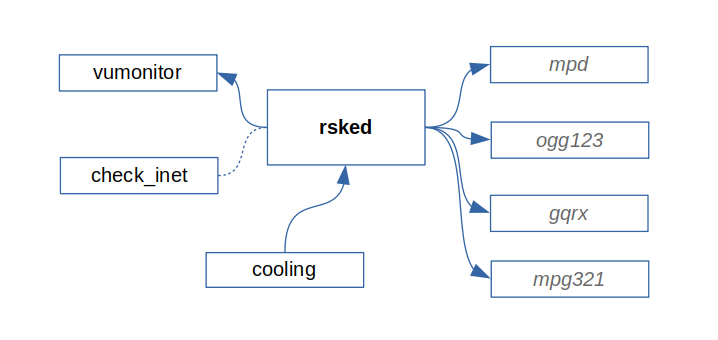
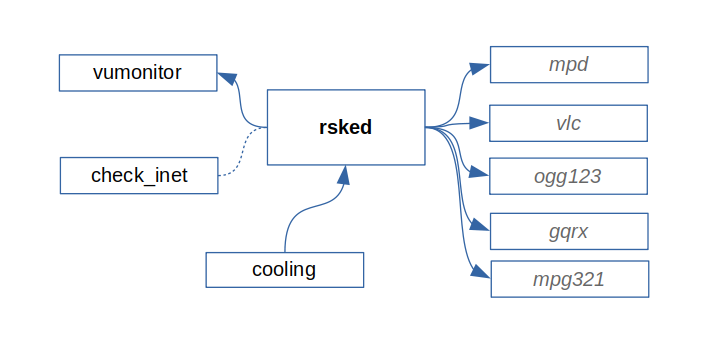
upgrade docs for recent improvements

Changed region(s): [[0.6435, 0.5, 0.9192, 0.7353], [0.6128, 0.3235, 0.9192, 0.5588], [0.6741, 0.2941, 0.9192, 0.3235]]

diff --git a/README.md b/README.md
@@ -4,11 +4,12 @@ rsked
 `rsked`, short for *radio scheduler*, is a Linux application that
 plays any of various audio sources at specific times on a weekly
 schedule, without any requirement for human interaction.  Sources
-include locally stored recordings (ogg, mp3), internet streams, and FM
-broadcasts (via inexpensive SDR hardware). It is intended to be run as
-an **embedded application** on an inexpensive low power microsystem
-(Raspberry Pi 3, RPi).  However it can run on x86 desktop computers as
-well, and likely on any Linux computer with a sound card.
+include locally stored recordings (ogg, mp3, mp4, flac), internet
+streams, and FM broadcasts (via inexpensive SDR hardware). It is
+intended to be run as an **embedded application** on an inexpensive
+low power microsystem (Raspberry Pi 3, RPi).  However it can run on
+x86 desktop computers as well, and likely on any Linux computer with a
+sound card.
 
 `rsked` was originally developed for people who, due to disability,
 are physically unable to operate conventional audio equipment. It
@@ -21,8 +22,8 @@ to require human interaction to schedule audio programming.
 ## Features
 
 - Weekly program schedule defined in a simple JSON file
-- Play MP3 or Ogg-Vorbis files, directories, or playlists
-- Play MP3 internet streams
+- Play MP3, MP4, FLAC, or Ogg-Vorbis files, directories, or playlists
+- Play internet streams
 - Play FM broadcast stations
 - Audio "message of the day" at scheduled times
 - Audio source failure detected, with reversion to defined backup sources
@@ -63,14 +64,15 @@ Recorded music may be played with any of these external applications
 available as packages on most Linux distributions:
 
 - [ogg123](https://wiki.xiph.org/Vorbis-tools)
+- [vlc](https://www.videolan.org)
 - [mpd](https://www.musicpd.org)
 - [mpg321](http://mpg321.sourceforge.net/)
 
 The `ogg123` player plays Ogg-Vorbis recordings, and is required to
-play announcements in `rsked`.  The music player daemon
-`mpd` is extremely versatile and recommended.
-The lightweight `mpg321` player is suitable for MP3 files.  All of
-these programs can play both individual files and playlists.
+play announcements in `rsked`. `vlc` plays a wide range of audio file
+formats.  The music player daemon `mpd` is similarly versatile.  The
+lightweight `mpg321` player is suitable for MP3 files.  All of these
+programs can play both individual files and playlists.
 
 
 ### Streaming

diff --git a/doc/INSTALLATION.md b/doc/INSTALLATION.md
@@ -40,15 +40,23 @@ deb packages are required for a typical installation:
 - libgpiod2
 - libjsoncpp1
 
-You may omit the gnuradio packages if there is no need to play FM
-radio via `gqrx` (and the sdr player is disabled in the
-configuration.)  You may omit `mpd`, `mpc`, and `mpg321` if there is
-no need to play MP3 files or streams (and these players are disabled
-in the configuration).  You may omit `dnsutils` if the application
-will not use the IP network at all, or will not need to run
-`check_inet`.
+### Notes
 
-(Aside: On Ubuntu 20.04, replace boost1.67 packages with boost1.71.)
+- On Ubuntu 20.04, replace `boost1.67` packages with `boost1.71`.
+
+- The VLC Media player is typically included in the minimal install, but
+  if command `vlc` is missing, install `vlc`.
+
+- You may omit the gnuradio packages if there is no need to play FM
+  radio via `gqrx` (and the SDR player is disabled in the configuration.)
+
+- You may omit `mpd`, `mpc`, and `mpg321` if there is no need to play
+  MP3 files or streams with these players. (Be sure to disable them in
+  the configuration).
+
+- You may omit `dnsutils` if the application will not use the IP network
+  at all, or will not need to run `check_inet`.
+
 
 ## Installing a Binary Release
 
@@ -138,9 +146,19 @@ audio announcements.
 sudo apt install vorbis-tools
 ```
 
+## vlc
+
+The VLC Media player is commonly pre-installed, but may be installed various ways
+if needed, e.g.:
+
+```
+sudo apt install vlc
+```
+
 ## mpd
 
-The Music Player Daemon: optional, but desirable.
+The *Music Player Daemon* is an alternative to VLC in that it also plays a wide
+variety of audio files and streams.
 
 ```
 sudo apt install mpd mpc
@@ -170,8 +188,8 @@ journalctl --user --unit=mpd
 
 ## mpg321
 
-Optional. Not needed if using `mpd`, but it has a much smaller
-footprint than `mpd`.
+Optional. Not needed if using `mpd` or `vlc`, but it has a much smaller
+footprint.  Note that it will only play `mp3`, not `mp4/m4a` files.
 
 ```
 sudo apt install mpg321

diff --git a/doc/README-RPi.md b/doc/README-RPi.md
@@ -69,7 +69,7 @@ need wired or wireless access. Select a model with integral Wi-Fi
 in latter case.
 
 In an embedded solution, the network and WEP credentials to use
-Wi-Fi must be added to the device prior to installation. Add
+Wi-Fi are easiest to add to the device prior to installation. Add
 stanzas to the file `/etc/wpa_supplicant/wpa_supplicant.conf`
 e.g. 
 
@@ -84,6 +84,9 @@ The preshared key (psk) hash may be generated with `wpa_passphrase`. See
 [Wireless-CLI](https://www.raspberrypi.org/documentation/configuration/wireless/wireless-cli.md)
 for more details.
 
+For on-site configuration of the Wi-Fi, consult:
+[INSTALLATION:Bluetooth](INSTALLATION.md#Bluetooth).
+
 Consider adding a *firewall* package like `ufw`. Configure it to
 open only ports needed for the installation.
 
@@ -94,6 +97,9 @@ capable models will be unsatisfactory.  Consult the `gqrx` development
 site for progress with other models such as the Pi 4.  The `gqrx`
 configuration should be tailored to minimize the display features,
 e.g. the spectrum waterfall--none of these are needed here.
+Lighter-weight alterntives to `gqrx` SDR for `rsked` are being studied.
+A good antenna can improve reception. The ANT500 from Great Scott Gadgets
+works well in my installations.
 
 
 ## Storage

diff --git a/doc/CONFIGURATION.md b/doc/CONFIGURATION.md
@@ -99,10 +99,11 @@ for a source, `rsked` will try them according to a preferred order
 until one is found that works. The *default* order (`playermgr.cc`) is
 currently:
 
-1. Mpd_player
-2. Ogg_player
-3. Mp3_player 
-4. Sdr_player
+1. Vlc_player
+2. Mpd_player
+3. Ogg_player
+4. Mp3_player 
+5. Sdr_player
 
 Starting with schema 1.1, it is possible to change this order on a per
 media/encoding basis.  In JSON, a `player_preference` object contains
@@ -134,6 +135,16 @@ The VU monitor is a child process that checks audio output at the
 Linux sound system layer.  If no sound is emitted for timeout seconds,
 `rsked` is notified.  If silence is unexpected, `rsked` will attempt
 to restore programming, e.g. by switching to an alternate source.
+
+### Vlc_player
+
+- `enabled` : boolean, if true, the `vlc` player is enabled
+- `debug` : boolean, if true, `rsked` emits additional logging from the player
+- `bin_path` : path to the `vlc` binary
+
+Stock VLC Media Player on most Linux distributions will play most
+audio content. Starting with v1.0.5 it is by default the top priority
+player for everything except FM radio.
 
 ### Mpd_player
 
